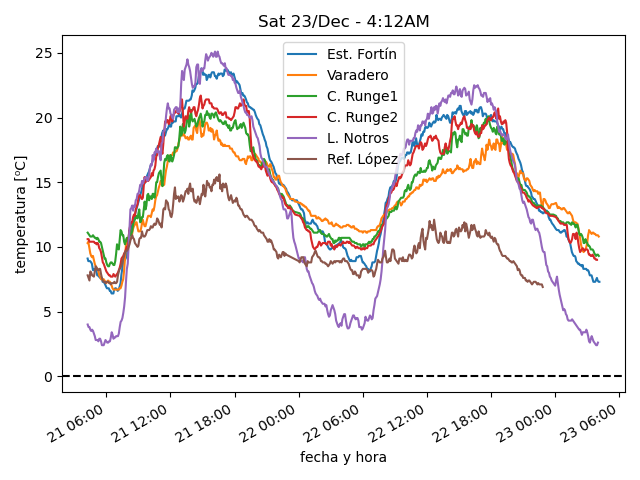
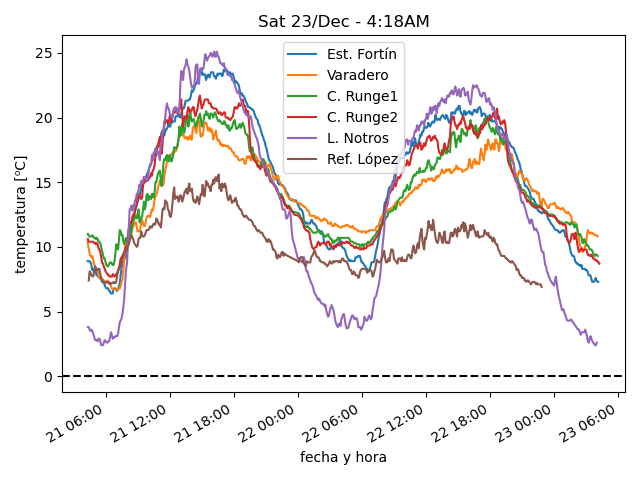
actualiza datos

diff --git a/estaciones/estacion4.html b/estaciones/estacion4.html
@@ -18,32 +18,32 @@
     </tr>
     <tr>
      <td class="stats_data">
-      3:54AM
+      4:14AM
      </td>
     </tr>
     <tr>
      <td class="stats_data">
-      9.0
+      8.7
      </td>
     </tr>
     <tr>
      <td class="stats_data">
-      4.4
+      4.0
      </td>
     </tr>
     <tr>
      <td class="stats_data">
-      73.1
+      72.0
      </td>
     </tr>
     <tr>
      <td class="stats_data">
-      1017.61
+      1017.54
      </td>
     </tr>
     <tr>
      <td class="stats_data">
-      0.6/1.2 SSW
+      0.7/1.3 SSW
      </td>
     </tr>
     <tr>
